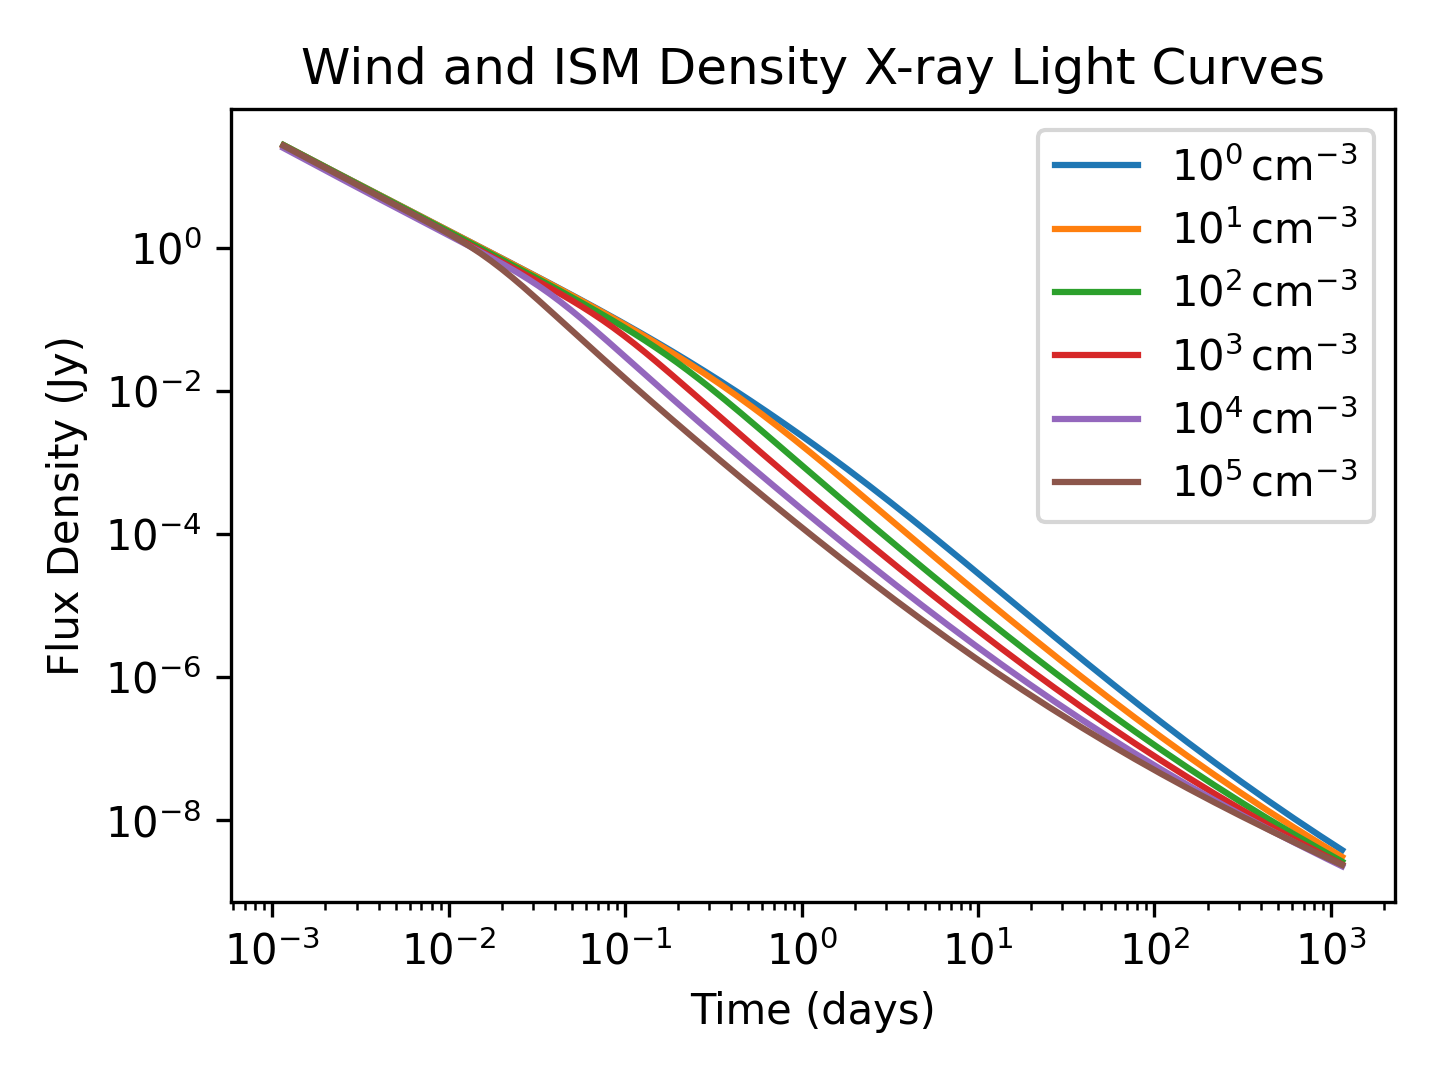
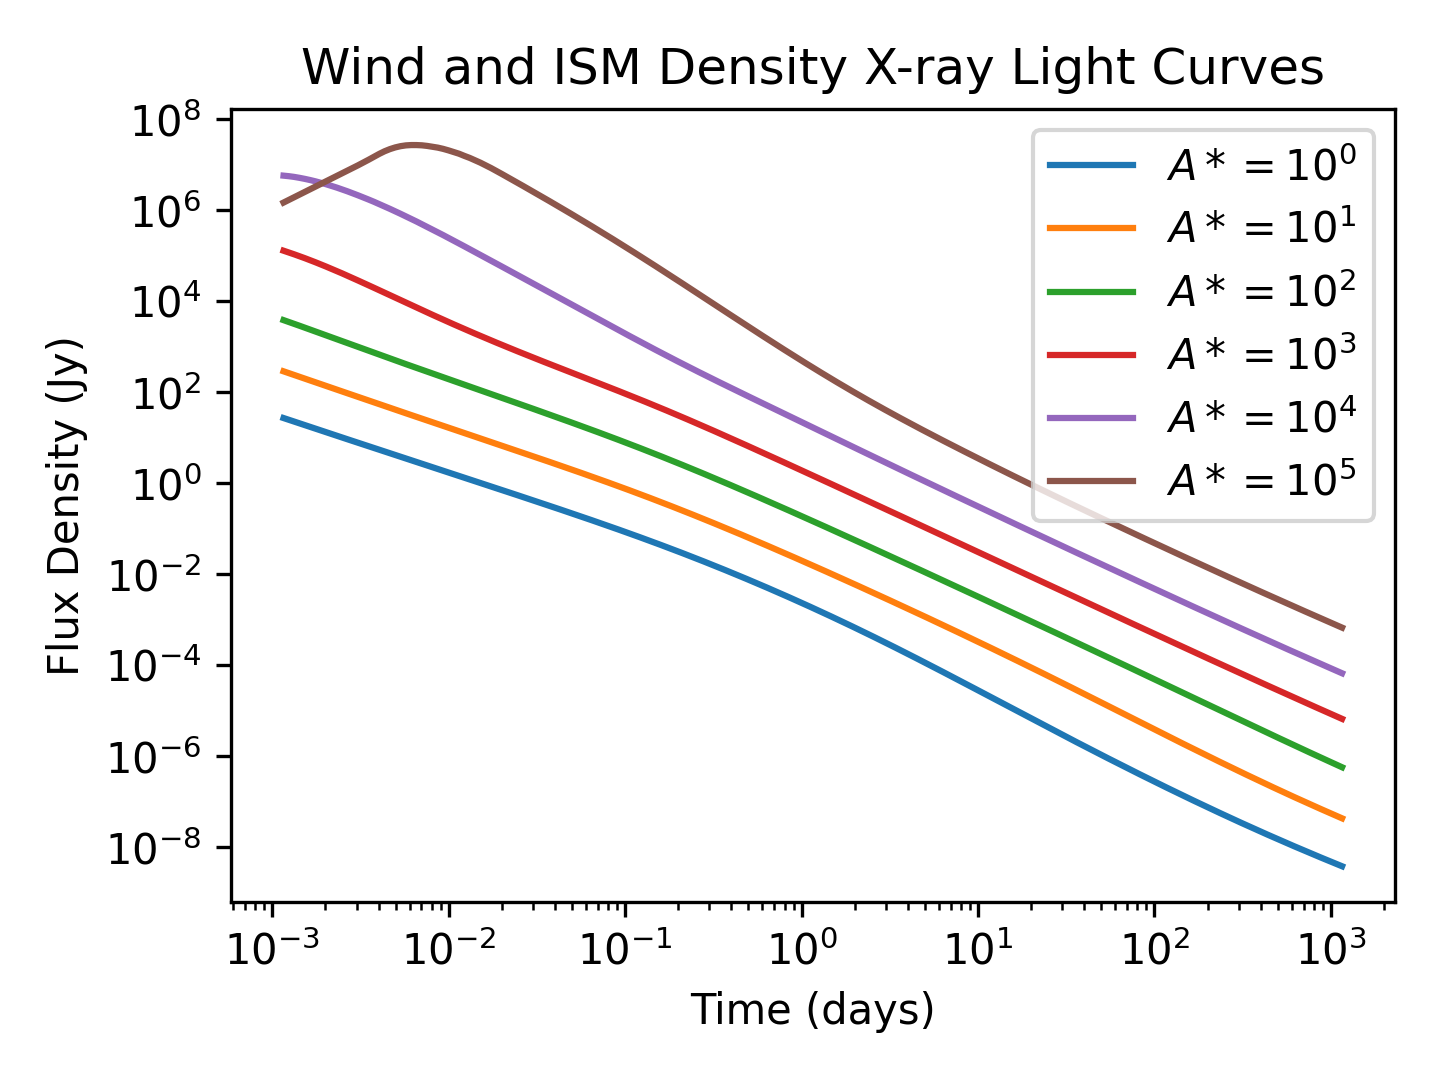
After working at Morehead on the laptop Thursday 10/30/25

diff --git a/Variable_k_model.py b/Variable_k_model.py
@@ -1,7 +1,7 @@
 # -*- coding: utf-8 -*-
 import numpy as np
 import matplotlib.pyplot as plt
-from VegasAfterglow import TophatJet, Observer, Radiation, Model, Medium
+from VegasAfterglow import TophatJet, Observer, Radiation, Model, Medium, Wind
 from os import makedirs
 
 # ---------- setup ----------
@@ -16,89 +16,27 @@ Msun = 1.98847e33
 pc_to_cm = 3.086e18
 
 # ---------- two-stage (slow → WR) density ----------
-def make_two_stage_density(
-    # WR (inner, fast)
-    Mdot_WR = 6e-6 * Msun / year,   # g/s  (≈ 6e-6 Msun/yr)
-    v_WR    = 2e8,                  # cm/s (≈ 2000 km/s)
-    t_WR    = 1e4 * year,           # s    (10^4 yr)
-
-    # Slow phase (LBV/RSG)
-    Mdot_slow = 3e-5 * Msun / year, # g/s  (≈ 3e-5 Msun/yr)
-    v_slow    = 2.5e6,              # cm/s (≈ 25 km/s → RSG; use 1e7 for LBV 100 km/s)
-    t_slow    = 5e4 * year,         # s    (5×10^4 yr laid down pre-WR)
-
-    # ISM
-    n_ism   = 1.0,                  # cm^-3
-    rho_ism = None,                 # g/cm^3; if None, set to n_ism*mp
-
-    # shell placement & mass loading
-    shell_mode    = "kinematic",    # "kinematic" or "fractional"
-    frac_Rsh      = 0.5,            # if "fractional": R_sh = frac_Rsh * R_slow
-    f_sweep       = 0.7,            # fraction of slow-wind mass (inside R_sh) swept into shell
-    rel_thickness = 0.03            # ΔR / R_sh (geometrically thin)
+def make_variable_k_density(
+    A=1.5E11,   # g/s  if k=2
+    k=2    # wind structure
 ):
     """
     Returns: rho(phi,theta,r) [g/cm^3], meta dict
     Inner WR wind, thin swept shell at R_sh, slow wind out to R_slow, ISM beyond.
     """
-    if rho_ism is None:
-        rho_ism = n_ism * mp
-
-    # A-parameters (g cm^-1)
-    A_WR   = Mdot_WR   / (4.0 * pi * v_WR)
-    A_slow = Mdot_slow / (4.0 * pi * v_slow)
-
-    # slow wind extent (laid down before WR)
-    R_slow = max(1e15, v_slow * t_slow)
-
-    # shell radius
-    if shell_mode.lower().startswith("kin"):
-        R_sh = max(1e15, min(R_slow, v_slow * t_WR))
-    else:
-        R_sh = max(1e15, min(R_slow, frac_Rsh * R_slow))
-
-    # shell thickness
-    dR = max(1e-3 * R_sh, rel_thickness * R_sh)
-
-    # mass of slow wind interior to R_sh (for ρ∝r^-2: M(<R)=(Mdot/v)*R)
-    M_slow_in = (Mdot_slow / v_slow) * R_sh
-    M_shell   = f_sweep * M_slow_in
-
-    # uniform shell density (mass / volume of thin spherical shell)
-    rho_shell = M_shell / (4.0 * pi * R_sh**2 * dR)
-
-    # region boundaries
-    R1 = R_sh        # WR wind → shell inner
-    R2 = R_sh + dR   # shell outer
-    R3 = R_slow      # slow wind outer
 
     def rho(phi, theta, r):
-        # free WR wind
-        if r < R1:
-            return A_WR / (r**2)
-        # thin shell
-        if r < R2:
-            return rho_shell
-        # slow wind zone
-        if r < R3:
-            return A_slow / (r**2)
-        # ambient ISM
-        return rho_ism
-
-    meta = {"R_sh": R_sh, "dR": dR, "R_slow": R_slow,
-            "rho_shell": rho_shell, "A_WR": A_WR, "A_slow": A_slow,
-            "n_ism": n_ism, "rho_ism": rho_ism}
+        return A*r**(-k)
+    meta = {"A": A, "k": k}
     return rho, meta
 
 # build one medium (tweak parameters here as desired)
-rho_fn, meta = make_two_stage_density(
-    # choose LBV or RSG character by v_slow; other knobs above
-    v_slow=2.5e6,        # 25 km/s (RSG-like)
-    n_ism=1.0,           # cm^-3
-    f_sweep=0.7,
-    rel_thickness=0.03
+rho_fn, meta = make_variable_k_density(
+    A=1.5E11,
+    k=2
 )
 medium = Medium(rho=rho_fn)
+medium = Wind(A_star=1)  ###  Testing to see if output is same
 
 # ---------- model (jet/observer/radiation) ----------
 jet = TophatJet(theta_c=0.1, E_iso=1e52, Gamma0=300)
@@ -108,7 +46,6 @@ model = Model(jet=jet, medium=medium, observer=obs, fwd_rad=rad)
 
 # ---------- density profile plot with twin axes ----------
 r = np.logspace(16, 20, 600)                     # cm
-#rho_profile = np.array([rho_fn(0, 0, ri) for ri in r])
 rho_profile = model.medium(0,0,r)
 n_profile   = rho_profile / mp
 
